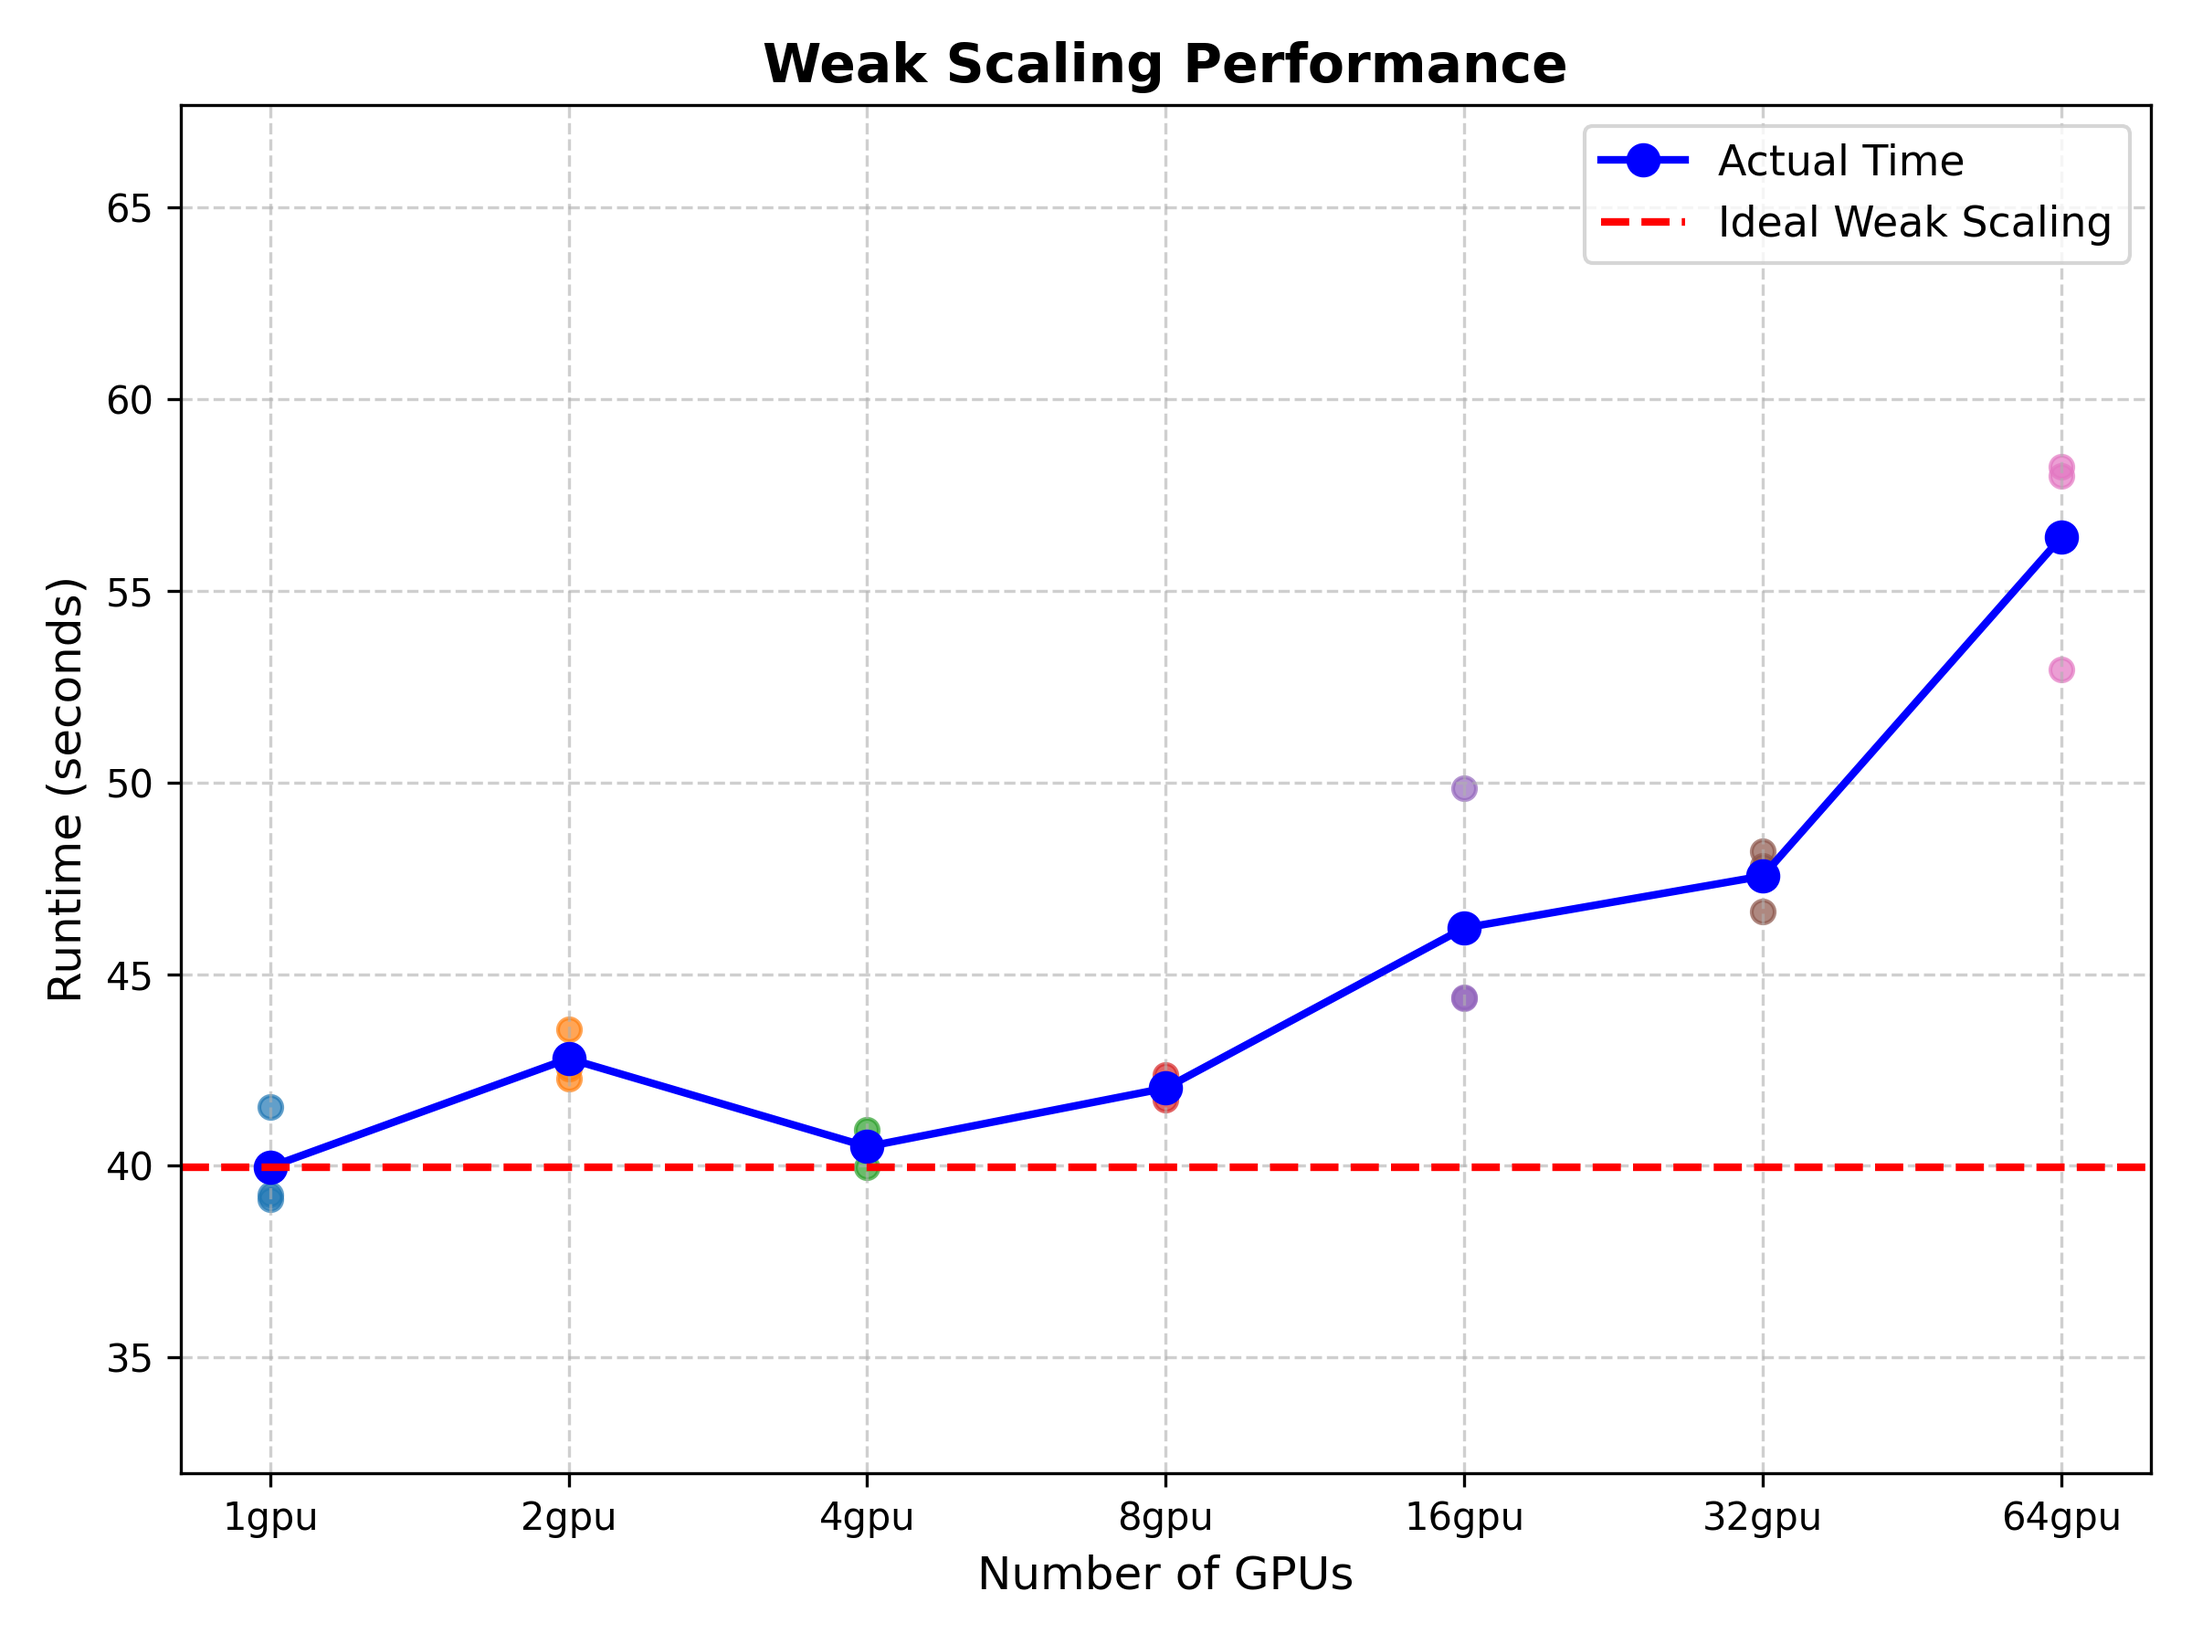
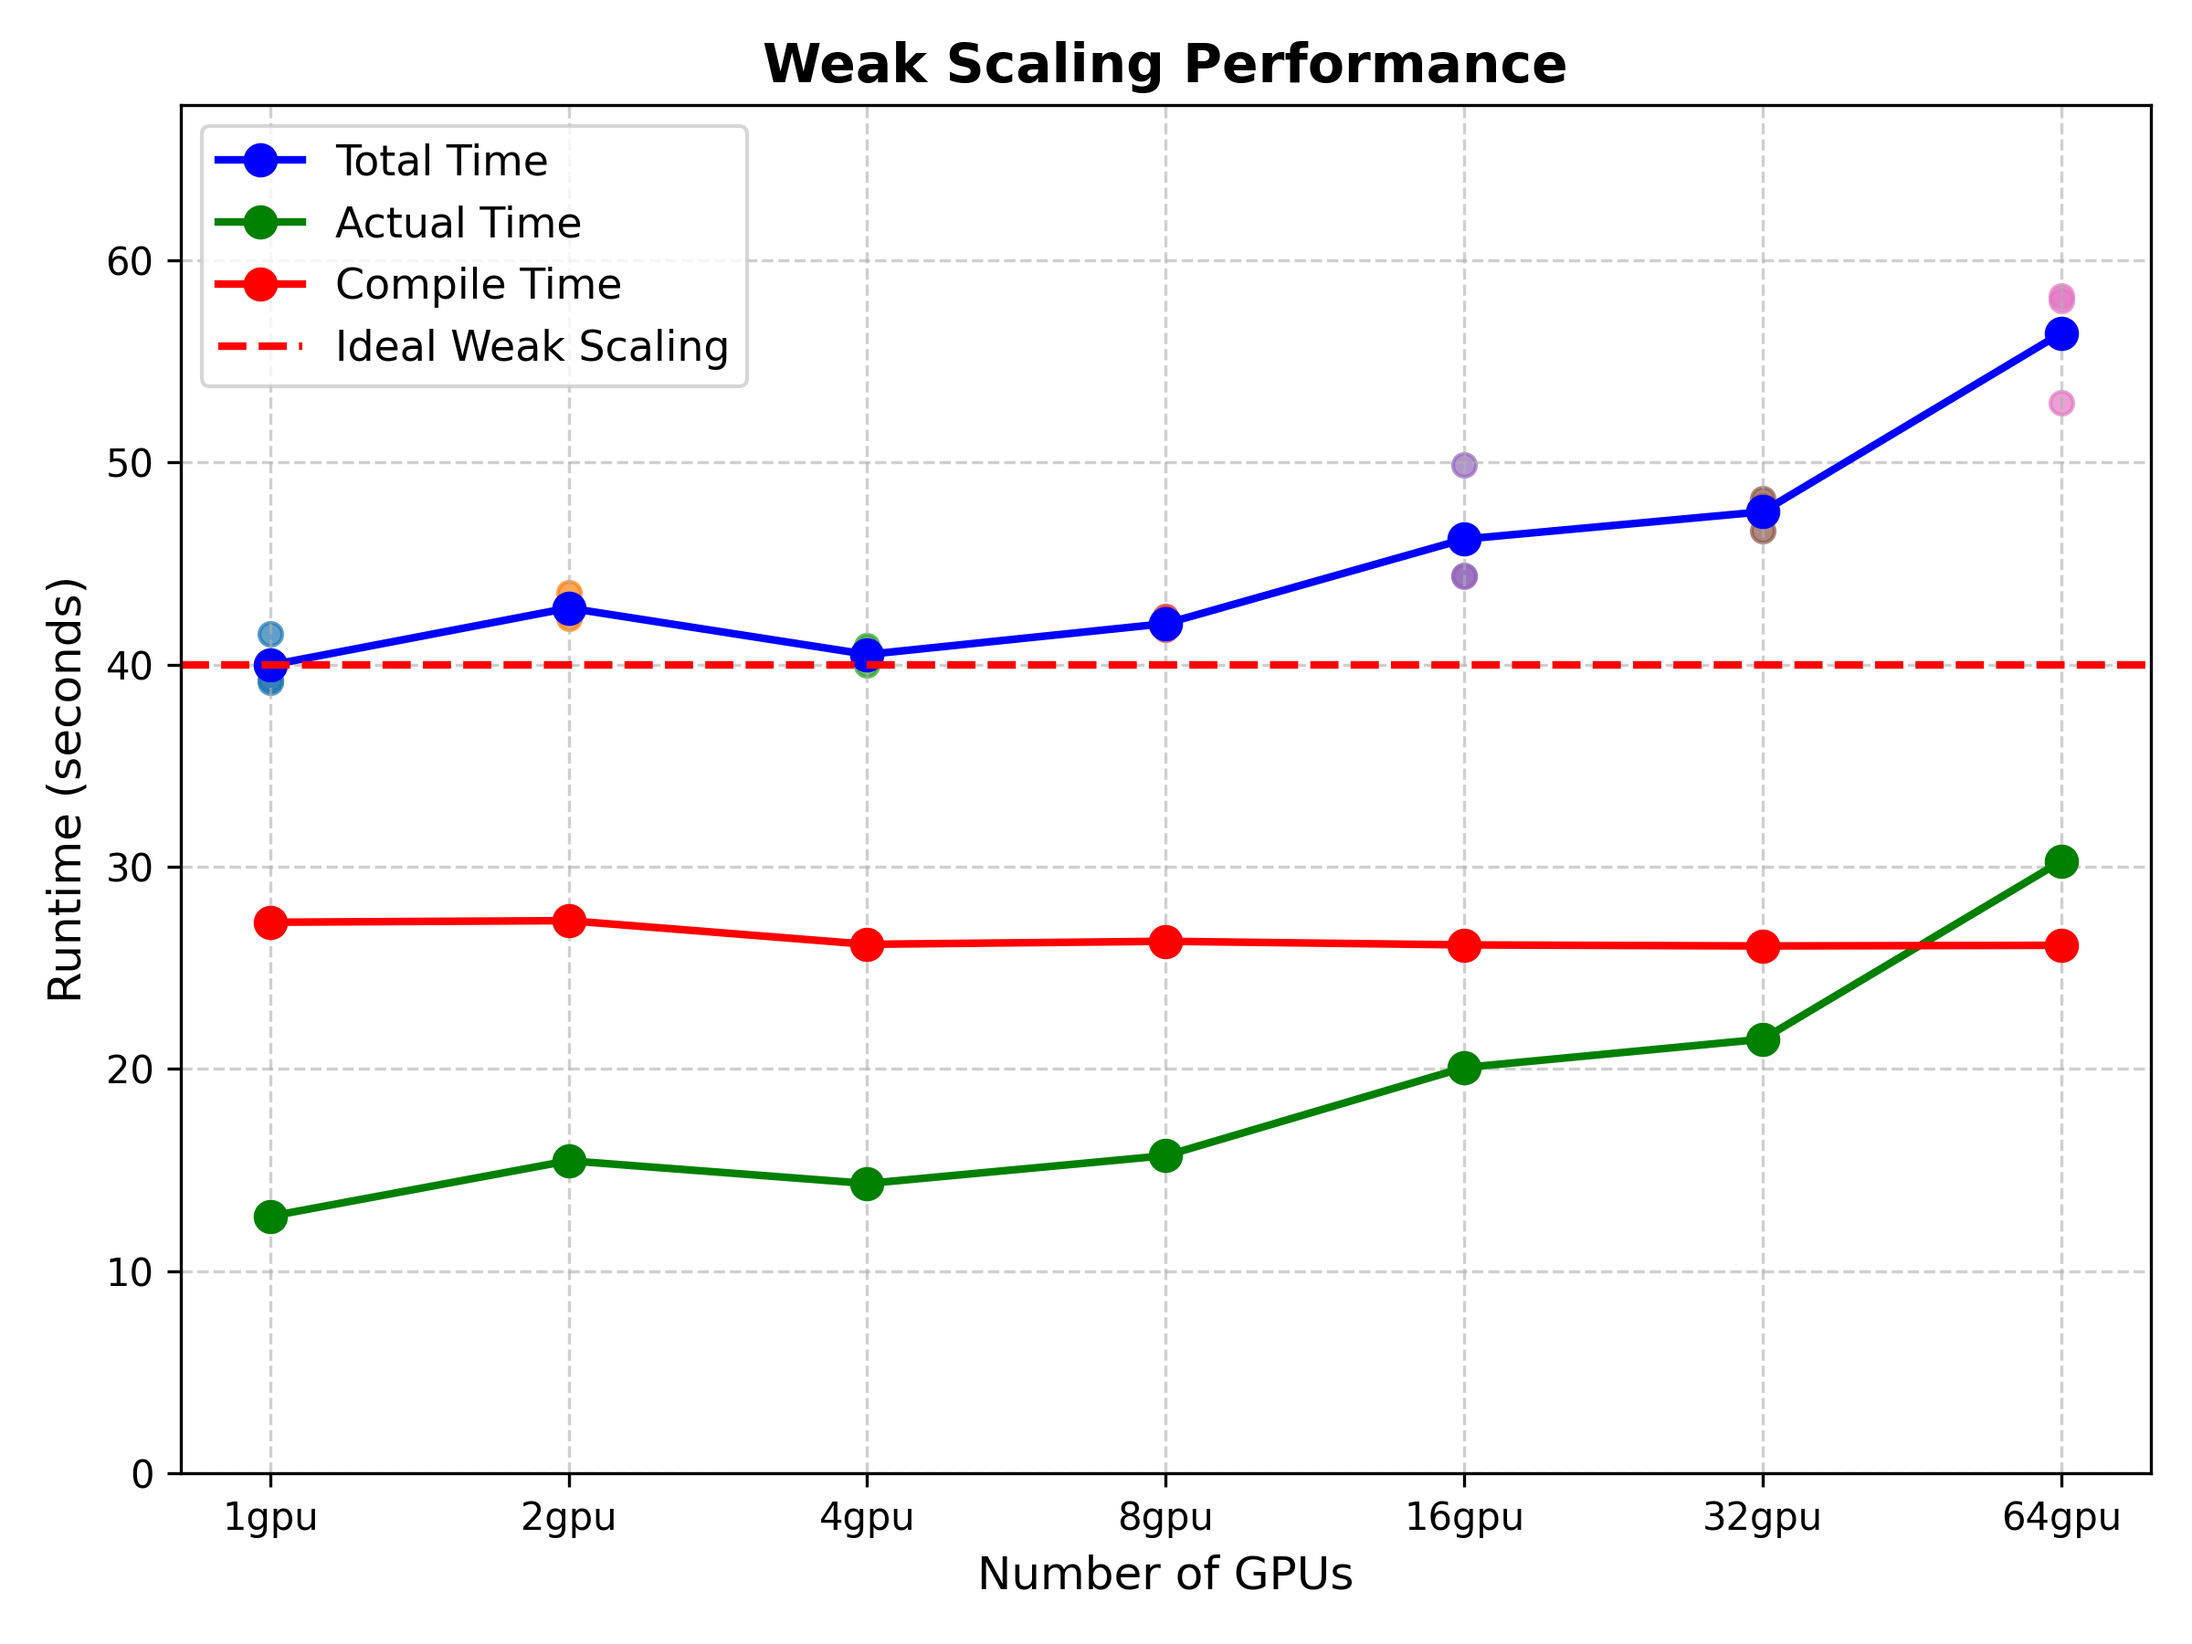
updated plot script + started visualization for 2nd topology

diff --git a/scalingResults/plotWeakScaling.py b/scalingResults/plotWeakScaling.py
@@ -6,8 +6,9 @@ files = os.listdir("outFiles")
 timingDict = {}
 
 for f in files:
-    name = f.split("gpu")[0].lstrip("weak_")
-    print(name)
+
+    if "swe_xpu" in f:
+        continue
 
     lines = open(os.path.join("outFiles", f)).readlines()
 
@@ -15,7 +16,8 @@ for f in files:
     sum_timings = 0.0
     num_timings = 0
     name = f.split(".")[0].lstrip("weak_")
-    timingDict[name] = {"measurements" : [], "average" : 0.0}
+    timingDict[name] = {"measurements" : [], "compilePercentage" : [], "actualTime" : [], "compileTime": [],
+                        "actualTimeAverage": 0.0, "compileTimeAverage": 0.0, "average" : 0.0}
 
     for line in lines:
         if "Global domain size (including halos):" in line:
@@ -30,7 +32,24 @@ for f in files:
             sum_timings = 0.0
 
         if "seconds (" in line:
-            timing = float(line.split("seconds")[0])
+            backupline = line
+            s_line = line
+            timing = float(s_line.split("seconds")[0])
+
+            if "compilation time" in line:
+                if "lock conflict, " in line:
+                    percentage = float(line.split("lock conflict, ")[1].split("% compilation time")[0].strip()) / 100
+                else:
+                    percentage = float(line.split("gc time, ")[1].split("% compilation time")[0].strip()) / 100
+
+                timingDict[name]["compilePercentage"].append(percentage)
+                timingDict[name]["compileTime"].append(percentage*timing)
+                timingDict[name]["actualTime"].append(timing - percentage*timing)
+            else:
+                timingDict[name]["compilePercentage"].append(0)
+                timingDict[name]["compileTime"].append(0)
+                timingDict[name]["actualTime"].append(timing)
+
             sum_timings += timing
             num_timings += 1
 
@@ -38,22 +57,29 @@ for f in files:
         timingDict[name]["measurements"].append(sum_timings / num_timings)
 
     timingDict[name]["average"] = sum(timingDict[name]["measurements"]) / len(timingDict[name]["measurements"])
+    timingDict[name]["actualTimeAverage"] = sum(timingDict[name]["actualTime"]) / len(timingDict[name]["actualTime"])
+    timingDict[name]["compileTimeAverage"] = sum(timingDict[name]["compileTime"]) / len(timingDict[name]["compileTime"])
 
 # --- Plotting Section ---
 
 if not timingDict:
     print("No timing data found. Check your file contents and paths.")
 else:
-    # Sort the dictionary by the number of GPUs (keys)
     sorted_gpus = sorted(timingDict.keys(), key=lambda x: int(x.split("gpu")[0]))
     sorted_times = [timingDict[gpu]["average"] for gpu in sorted_gpus]
+    sorted_actualtimes = [timingDict[gpu]["actualTimeAverage"] for gpu in sorted_gpus]
+    sorted_compiletimes = [timingDict[gpu]["compileTimeAverage"] for gpu in sorted_gpus]
 
-    # Create the plot
     plt.figure(figsize=(8, 6))
 
-    # Plot actual execution times
     plt.plot(sorted_gpus, sorted_times, marker='o', linestyle='-', color='b', linewidth=2, markersize=8,
+             label='Total Time')
+
+    plt.plot(sorted_gpus, sorted_actualtimes, marker='o', linestyle='-', color='g', linewidth=2, markersize=8,
              label='Actual Time')
+
+    plt.plot(sorted_gpus, sorted_compiletimes, marker='o', linestyle='-', color='r', linewidth=2, markersize=8,
+             label='Compile Time')
 
     for gpu in sorted_gpus:
         plt.scatter(
@@ -66,22 +92,18 @@ else:
     ideal_time = sorted_times[0]
     plt.axhline(y=ideal_time, color='r', linestyle='--', linewidth=2, label='Ideal Weak Scaling')
 
-    # Formatting the plot nicely
     plt.xlabel('Number of GPUs', fontsize=12)
     plt.ylabel('Runtime (seconds)', fontsize=12)
     plt.title('Weak Scaling Performance', fontsize=14, fontweight='bold')
 
-    # Ensure x-axis ticks match your GPU counts exactly (e.g., 1, 2, 4, 8)
     plt.xticks(sorted_gpus)
 
-    # Set y-axis limits to start a bit below the lowest time to show the floor clearly
-    plt.ylim(bottom=min(sorted_times) * 0.8, top=max(sorted_times) * 1.2)
+    plt.ylim(bottom=0, top=max(sorted_times) * 1.2)
 
     plt.grid(True, which="both", linestyle="--", alpha=0.6)
     plt.legend(fontsize=11)
     plt.tight_layout()
 
-    # Save the plot to a file and display it
     plt.savefig('weak_scaling_plot.png', dpi=300)
     print("Plot saved as 'weak_scaling_plot_base-resolution_nx-ny2000_nt2000.png'")
     plt.show()
